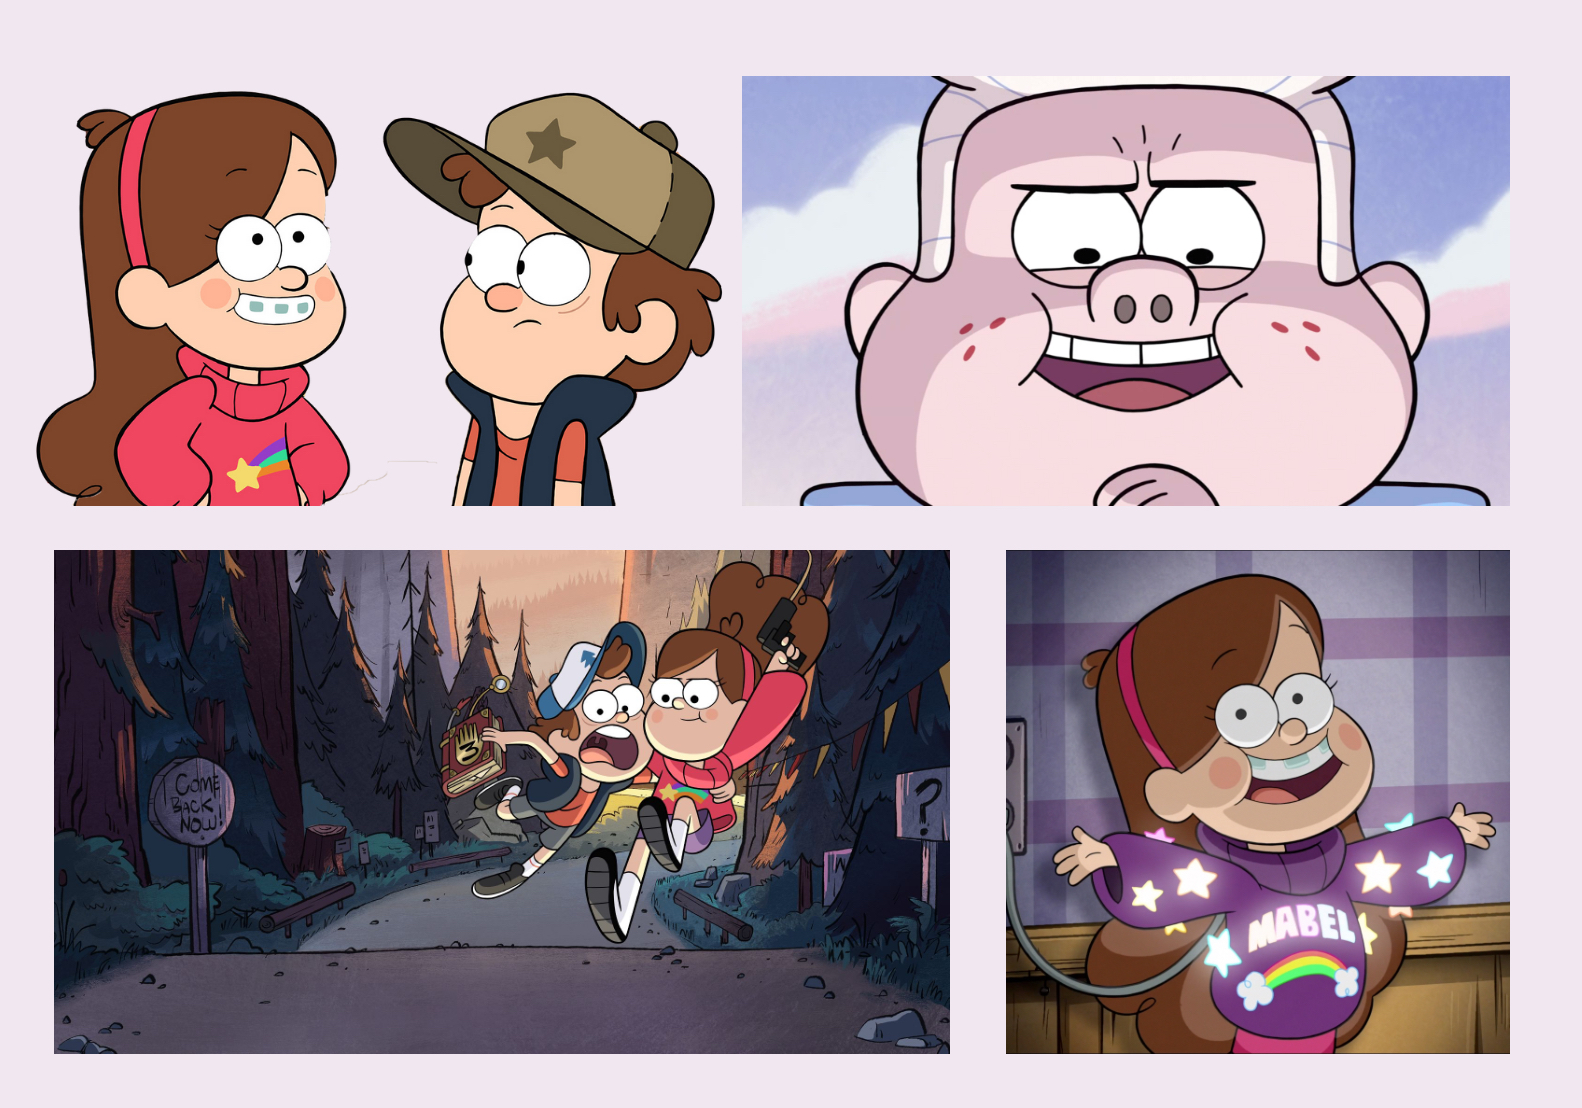
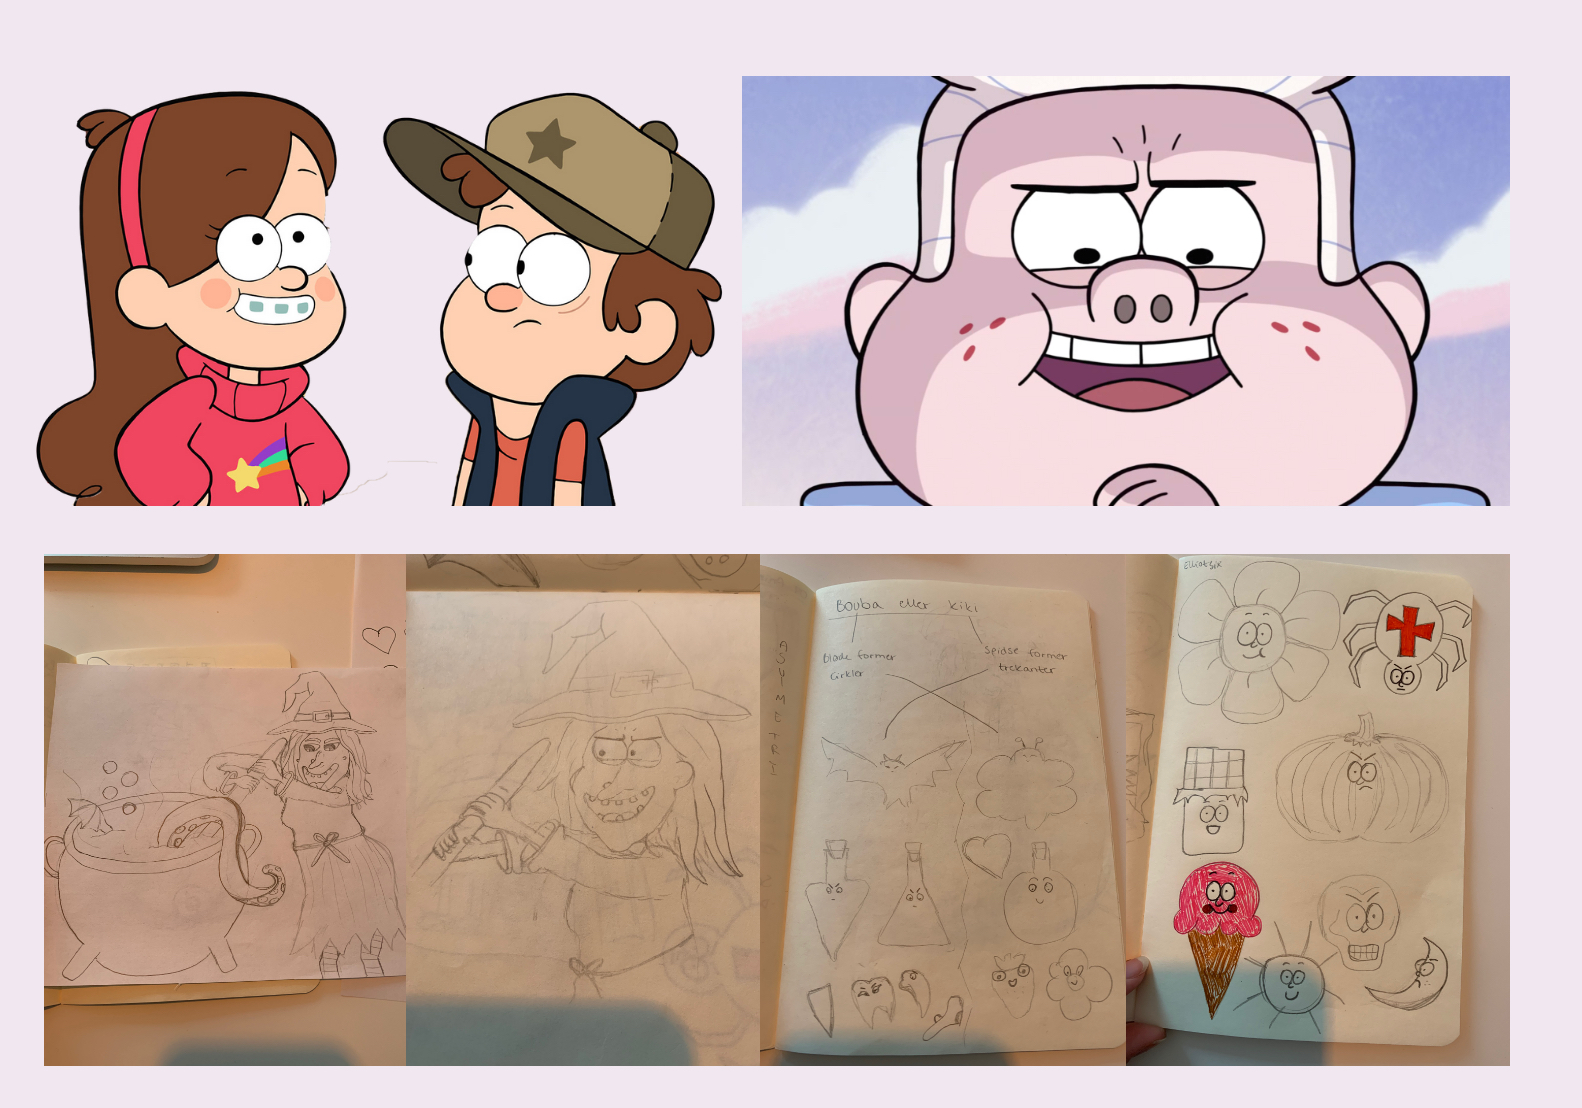
styletile - projekt 3

diff --git a/projekt3.html b/projekt3.html
@@ -37,7 +37,7 @@
             <section class="section_wrapper">
                 <section class="col1">
                     <h2>Om projektet &amp; pitch af spil</h2>
-                    <p>I tema 4 - animation, skulle vi ud fra selvlavet UML aktivitetsdiagram samt statemachindiagram, gennem HTML, CSS og Javascript udvikle vores eget spil.
+                    <p>I tema 4 - animation, skulle vi ud fra selvlavet UML aktivitetsdiagram samt statemachindiagram, gennem HTML, CSS og Javascript udvikle vores eget spil, herunder med skitser som dokumentationsform.
                         <br>Mit spil går ud på at den grumme heks gerne vil være en smuk prinsesse, derfor brygger hun en trylledrik der gør hende smuk men hun er kommet til at hælde nogle forkerte ingredienser i. Du skal derfor vælge alle de gode ingredienser så heksen kan blive den smukkeste i landet, men pas på du ikke vælger de onde hekse ingredienser, for hvis hun drikker trylledrikken med de onde ingredienser bliver hun forvandlet til en grim frø.
                     </p>
 
@@ -57,12 +57,13 @@
         <section id="second_section">
             <section class="section_wrapper">
                 <section class="col1">
-                    <img src="Animation%20-%20stilgenre.jpg" alt="stilgenre">
+                    <img src="Animation%20-%20stilgenre@2x.jpg" alt="stilgenre">
                 </section>
                 <section class="col2">
                     <h2>Stil/genre inspiration</h2>
                     <p>Gennem forskellige skitserings- og idegenereringsteknikker, designede jeg min egen fortolkning, ud fra en udvalgt stil/genre som inspiration, mit spil og spilelementer.
                         <br>Stilen jeg benyttede og dragede inspiration af var animations-tegneserien gravity falls. Dette kommer blandt andet til udtryk i heksens udseende, men er også gennemgående i designet af mine spilelementer. Et karaktertræk man tydeligt kan trække fra genren er spilelementernes øjne som er meget karakteristisk for Gravity falls karakterne.
+                        <br>I forhold til spil elementerne er der udover farvevalget, lagt fokus på formerne, alt efter om det er de gode eller dårlige spilelementer. Mens de gode former er runde og menytter sig af bouba, er de onde figurer meget mere skarpe og kantede hvilket også kendes som Kiki, dette er med til at fremstille .
                     </p>
                 </section>
             </section>
@@ -71,14 +72,31 @@
         <section id="third_section">
             <section class="section_wrapper">
                 <section class="col1">
-                    <h2>processen</h2>
-                    <p>Gennem forskellige skitserings- og idegenereringsteknikker, designede jeg min egen fortolkning, ud fra en udvalgt stil/genre som inspiration, mit spil og spilelementer.
-                        <br>Stilen jeg benyttede og dragede inspiration af var animations-tegneserien gravity falls. Dette kommer blandt andet til udtryk i heksens udseende, men er også gennemgående i designet af mine spilelementer. Et karaktertræk man tydeligt kan trække fra genren er spilelementernes øjne som er meget karakteristisk for Gravity falls karakterne.
+                    <h2>Processen</h2>
+                    <p>Alle figurerne har jeg håndtegnet i illlustrator med shaping-tool, jeg har herunder tilegnet mig kompetencer indenfor illustrator, da jeg før aldrig havde prøvet programmet.
+                        Figurerne samt UI-elementerne er gemt som SVG´er, hvilket er en vektorbasseret vil og som derfor egner sig godt til animation samt implementering i HTML, da man med SVG-filer kan skarlere op og ned i formatet uden at det mister kvalitet.
+                        <br>Baggrunds designet er enkelt og har et atmosfærisk perspektiv, som tydeliggøres af trægulvet som fortsætter hen til væggen.
+                        <br>
+                        <br>I animationstemaet har jeg i min design process også menyttet mig af gestaltlovene, som bruges i layoutet for at skabe en samlet enhed. I tema 4 har jeg bla. benyttet "Loven om lighed": som siger at hvis en række ting har samme størrelse, farve eller lignende har vi en tendens til at tænke at de udgør samme funktion. Denne lov har jeg benyttet i mine UI-elementer da de har en lighed i størrelse og farve, og derfor ses de som en smalet enhed.
                     </p>
                 </section>
                 <section class="col2">
-                    <img src="Animation%20-%20skitser.jpg">
+                    <img src="Animation%20-%20skitser@2x.jpg">
 
+                </section>
+            </section>
+        </section>
+
+        <section id="fourth_section">
+            <section class="section_wrapper">
+                <section class="col1">
+                    <img src="Animation%20-%20styletile@2x.jpg" alt="styletile">
+                </section>
+                <section class="col2">
+                    <h2>Styletile</h2>
+                    <p>I tema 4 benyttede jeg stærke egenkontraster iform af triaden (grøn, orange, lilla) til at designe mit hovedtema i spillet. Denne treklangs farveharmoni skabte stemningen i spillet samt et harmonisk udseende. Derudover benyttede jeg også den stærke lyserøde farve til at symbolisere de gode elementer samt prinsessen på vinder-skærmen, for at symbolisere uskylden og det let barnilige udtryk.
+                        <br> ift. fonte har jeg benyttet to fonte fra adobe fonts til at skabe en uhyggelig halloween stemning.
+                    </p>
                 </section>
             </section>
         </section>

diff --git a/projekt3.css b/projekt3.css
@@ -152,9 +152,18 @@ video {
 
 #third_section .col2 img {
     width: 100%;
-    margin-bottom: 10vw;
+    margin-bottom: 0vw;
 }
 
+/*_________________________fourth_section________________________________*/
+#fourth_section {
+    margin: 5vw;
+}
+
+#fourth_section img {
+    width: 100%;
+    margin-bottom: -10vw;
+}
 
 
 @media (min-width:1280px) {
@@ -310,5 +319,27 @@ video {
     #third_section .col2 img {
         width: 90%;
         margin-left: 4vw;
-        margin-bottom: 6vw;
+        margin-bottom: 0vw;
     }
+
+    /*_________________________fourth_section________________________________*/
+    #fourth_section .section_wrapper {
+        display: grid;
+        grid-template-columns: 50% 50%;
+    }
+
+    #fourth_section .col2 {
+        margin-left: 4vw;
+        margin-top: 0vw;
+        margin-bottom: 0vw
+    }
+
+
+    #fourth_section .col1 {
+        margin-bottom: 0vw;
+    }
+
+    #fourth_section p {
+        margin-bottom: 0vw;
+    }
+}
